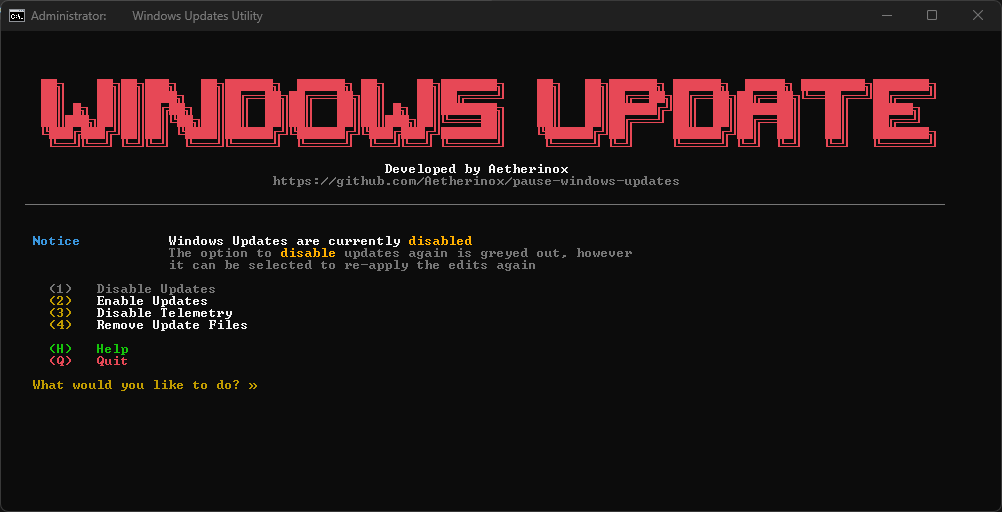
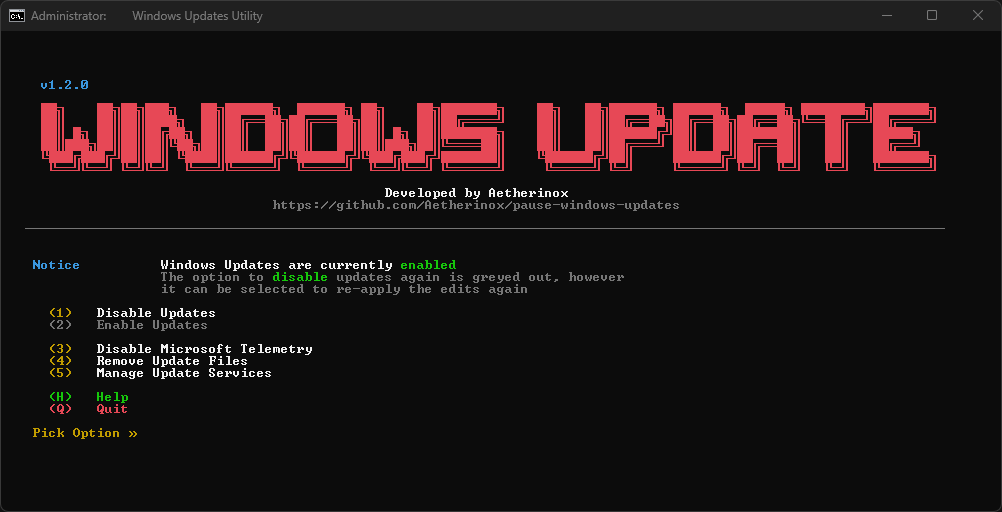
docs: update README, new screenshots

diff --git a/README.md b/README.md
@@ -90,8 +90,12 @@ To use, double-click the batch `.bat` file. You will be presented and numerous o
 
 1. Enable Windows Updates
 2. Disable Windows Updates
-3. Disable Windows Telemetry
-4. Clean Updates Folder
+3. Disable Microsoft Telemetry
+4. Remove Cached Update Files
+5. Manage Update Services
+     1. View Services Status
+     2. Enable Services
+     3. Disable Services
 
 <div align="center">
 
@@ -141,7 +145,7 @@ Head over to this repo's [Releases](https://github.com/Aetherinox/Windows-Update
 
 | <sup><sub>Filename</sub></sup> | <sup><sub>Method</sub></sup> | <sup><sub>Description</sub></sup> |
 | --- | --- | --- |
-| `windows-updates-utility.bat` | <sup><sub>Batch Utility | <sup><sub>Enable / Disable Windows Updates<br />Disable Microsoft Telemetry<br/>Clean Update Files</sub></sup> |
+| `windows-updates-utility.bat` | <sup><sub>Batch Utility | <sup><sub>Enable / Disable Windows Updates<br />Disable Microsoft Telemetry<br/>Clean Cached Update Files<br/>Manage Update Services</sub></sup> |
 | `windows-updates-pause.reg` | <sup><sub>Registry Script</sub></sup> | <sup><sub>Disable Windows Updates until 2051</sub></sup> |
 | `windows-updates-unpause.reg` | <sup><sub>Registry Script</sub></sup> | <sup><sub>Enable Windows Updates</sub></sup> |
 
